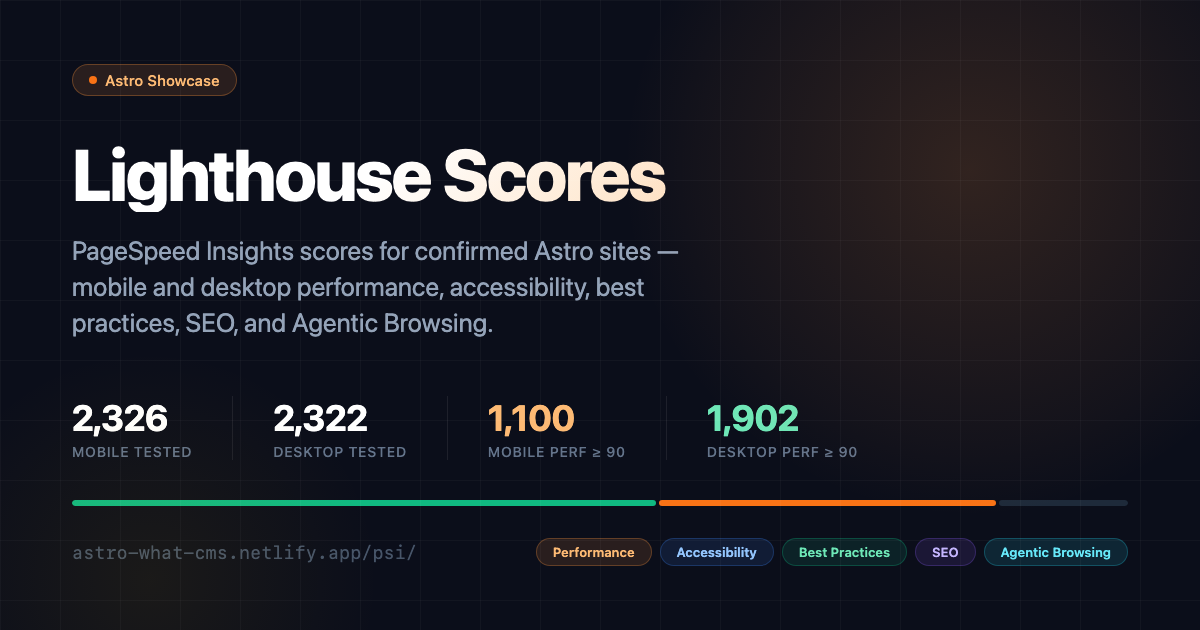
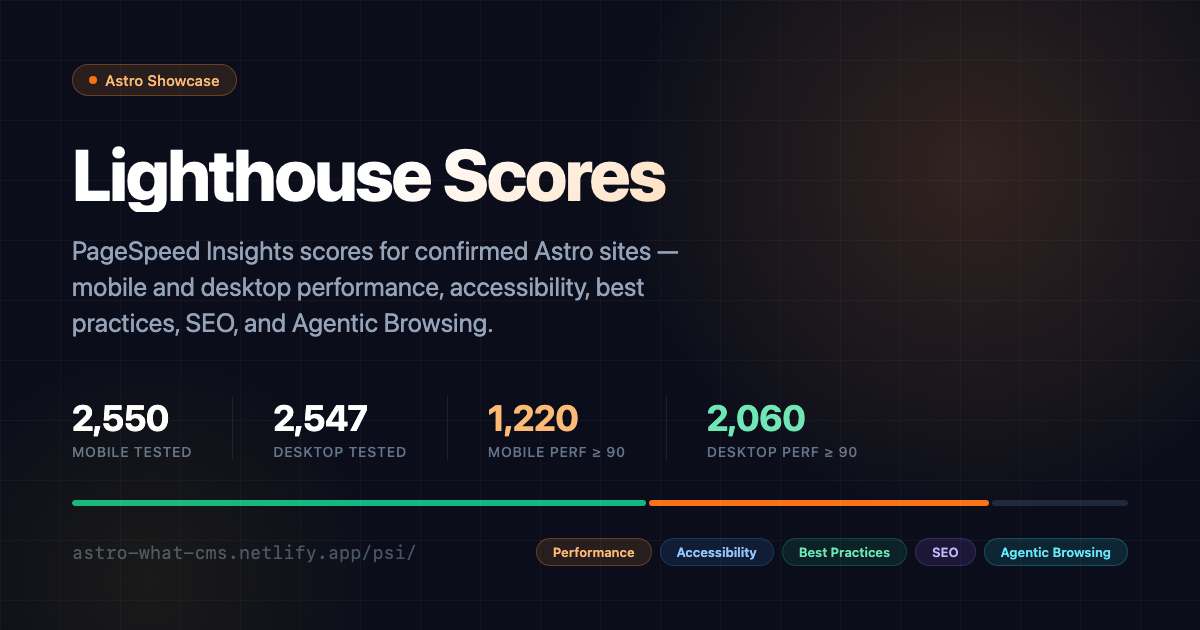
Fix PSI and Crux

diff --git a/scripts/og-templates/og-card-note-astro-vs-nextjs.html b/scripts/og-templates/og-card-note-astro-vs-nextjs.html
@@ -203,11 +203,13 @@
 			</div>
 
 			<div class="headline">
-				<div class="title">What happens to performance when a site leaves Astro?</div>
+				<div class="title">
+					What happens to performance when a site leaves Astro?
+				</div>
 				<div class="subtitle">
-					A shared GitHub Pages origin meant our “before/after” CrUX
-					comparison was measuring every project on that domain, not
-					the one that migrated. Here’s what actually held up.
+					A shared GitHub Pages origin meant our “before/after” CrUX comparison
+					was measuring every project on that domain, not the one that migrated.
+					Here’s what actually held up.
 				</div>
 			</div>
 
